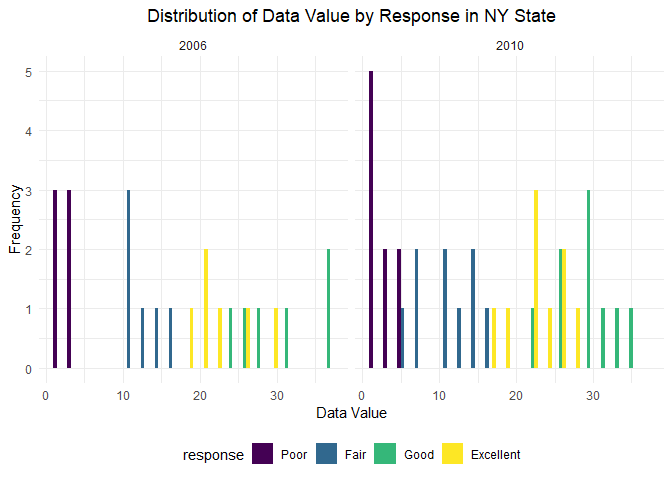
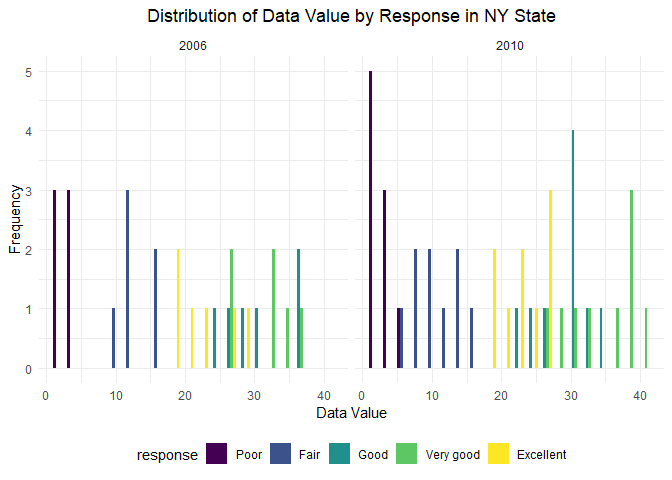
I'm updating how i factored in problem 2. I realized that I had a typo and didn't need to use the reorder function.

diff --git a/p8105_hw3_sjk2254.md b/p8105_hw3_sjk2254.md
@@ -172,9 +172,8 @@ brfss_df =
   brfss_df |> 
   janitor::clean_names() |> 
   filter(topic == "Overall Health") |> 
-  filter(response %in% c("Poor","Fair","Good","Very Good","Excellent")) |> 
-  mutate(response = factor(response, levels = c("Poor","Fair","Good","Very Good","Excellent"))) |> 
-  mutate(response = ordered(response, levels = c("Poor","Fair","Good","Very Good","Excellent")))
+  filter(response %in% c("Poor","Fair","Good","Very good","Excellent")) |> 
+  mutate(response = fct_relevel(response, c("Poor","Fair","Good","Very good","Excellent")))
 ```
 
 The Selected Metropolitan Area Risk Trends (SMART) project uses the
@@ -182,7 +181,7 @@ Behavioral Risk Factor Surveillance System (BRFSS) to analyze data from
 counties. The BRFSS is a government data set that is primary used to
 identify emerging health problems, establish and track health
 objectives, and develop and evaluate public health policies and
-programs. The dataset (`brfss_df`) has 23 variables with 8500
+programs. The dataset (`brfss_df`) has 23 variables with 10625
 observations and data ranging from years 2002 to 2010. This dataset
 focuses on the health topic “Overall Health”, specifically for responses
 from “Poor” to “Excellent”.
